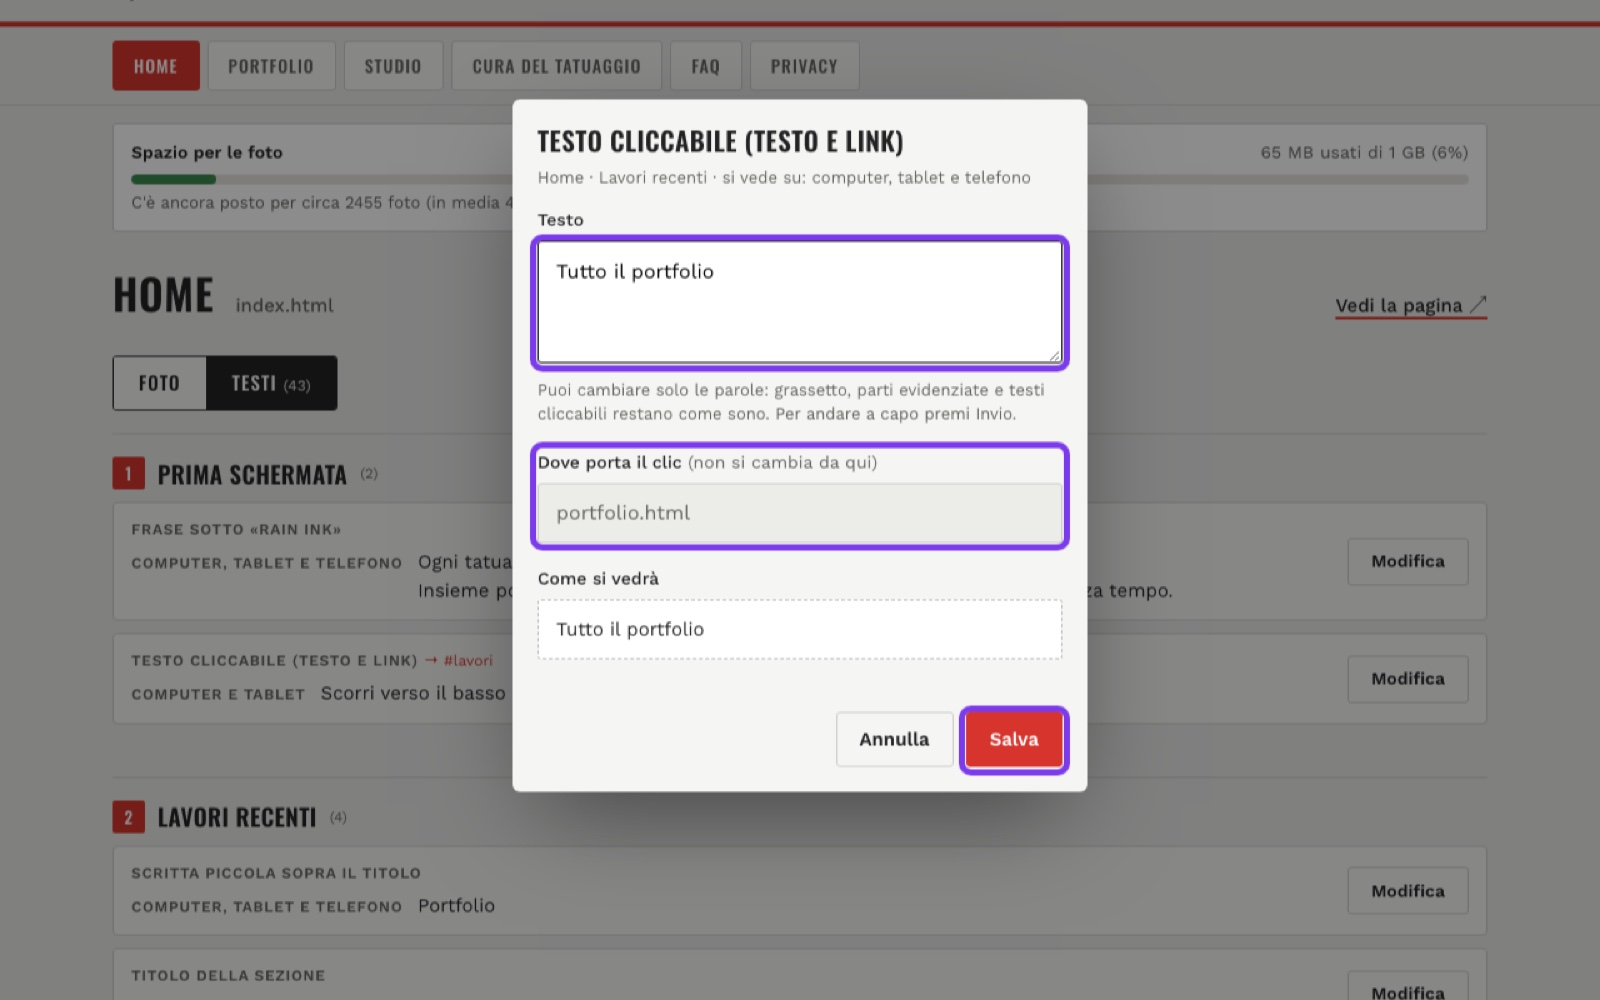
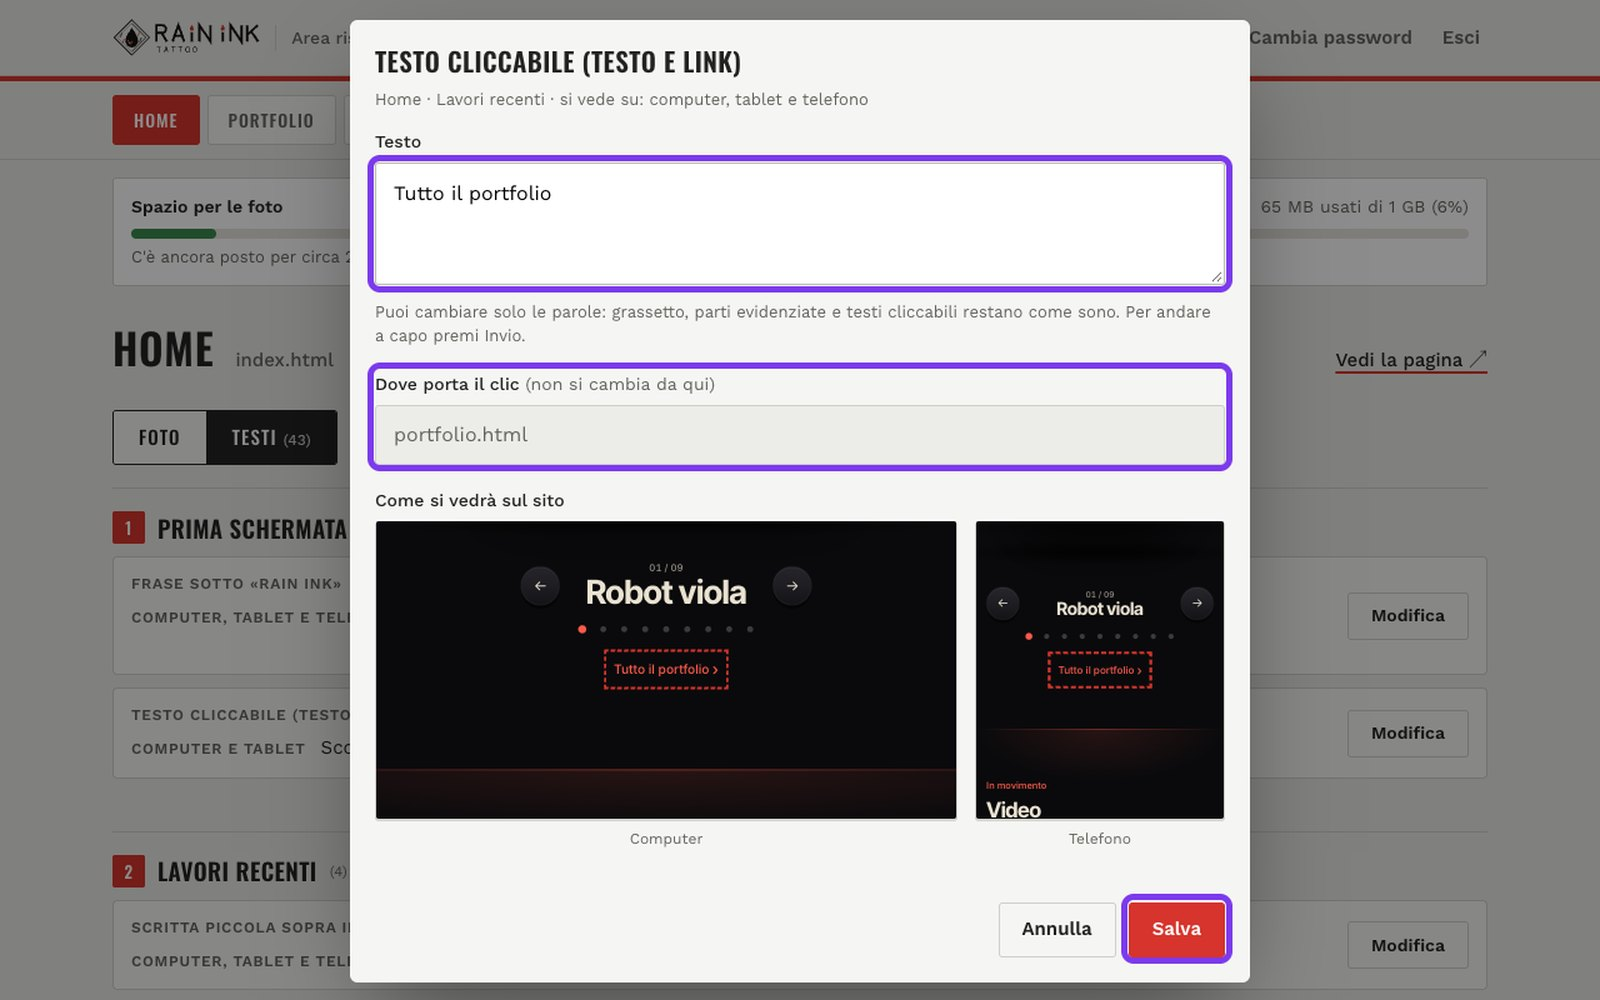
Area riservata: anteprima dei testi come sul sito, sul computer e sul telefono, come per le foto; schermate della guida dei testi rifatte (versione 6.24 nel LEGGIMI)

diff --git a/area-riservata.html b/area-riservata.html
@@ -402,6 +402,19 @@ input[type=text],input[type=password]{border-radius:3px;background:#fff;border-c
 .anteprima-testo.grande{display:block;-webkit-line-clamp:none;max-height:30svh;overflow:auto;padding:12px 14px;background:#fff;border:1px dashed #b9b9b3;border-radius:3px;margin-bottom:12px}
 .anteprima-testo .vuoto{color:var(--mute)}
 .etichetta-ant{font-size:14px;font-weight:500;margin-bottom:6px}
+/* testi: anteprima come sul sito, sul computer e sul telefono (come per le foto): la pagina vera
+   in piccolo, con il testo nuovo al suo posto e contornato, centrata sul testo */
+#d-testo{width:min(720px,100% - 24px)}
+.viste-testo{display:flex;flex-wrap:wrap;gap:14px;align-items:flex-start;margin-bottom:12px}
+.viste-testo[hidden]{display:none}
+.viste-testo figure{margin:0;flex:1 1 300px;min-width:0}
+.viste-testo figure.tel{flex:0 0 200px;margin:0 auto}
+.vt-fin{position:relative;height:240px;overflow:hidden;border:1px solid var(--line);border-radius:3px;background:var(--paper)}
+.vt-fin iframe{position:absolute;left:0;top:0;border:0;transform-origin:0 0;pointer-events:none;visibility:hidden}
+.vt-fin.pronta iframe{visibility:visible}
+.vt-msg{position:absolute;inset:0;display:grid;place-items:center;padding:14px;text-align:center;font-size:13px;line-height:1.4;color:var(--mute)}
+.vt-fin.pronta .vt-msg{display:none}
+.viste-testo figcaption{font-size:12px;color:var(--mute);margin-top:5px;text-align:center}
 #d-testo textarea{width:100%;min-height:52px;padding:12px 14px;border:1px solid #b9b9b3;border-radius:3px;background:#fff;font:16px/1.5 var(--testo);resize:vertical}
 #d-testo textarea:focus{outline:none;border-color:var(--ink);box-shadow:0 0 0 3px rgba(0,0,0,.08)}
 #d-testo .parte+.parte,.testi-foto .parte+.parte{margin-top:8px}
@@ -541,8 +554,12 @@ input[type=text],input[type=password]{border-radius:3px;background:#fff;border-c
       <label for="tx-link">Dove porta il clic <span class="facoltativo">(non si cambia da qui)</span></label>
       <input type="text" id="tx-link" readonly tabindex="-1">
     </div>
-    <p class="etichetta-ant" id="tx-ant-et">Come si vedrà</p>
-    <div class="anteprima-testo grande" id="tx-ant" aria-live="polite"></div>
+    <p class="etichetta-ant" id="tx-ant-et">Come si vedrà sul sito</p>
+    <div class="viste-testo" id="tx-viste" aria-hidden="true">
+      <figure class="pc"><div class="vt-fin"><span class="vt-msg">Preparazione dell'anteprima…</span></div><figcaption>Computer</figcaption></figure>
+      <figure class="tel"><div class="vt-fin"><span class="vt-msg">Preparazione dell'anteprima…</span></div><figcaption>Telefono</figcaption></figure>
+    </div>
+    <div class="anteprima-testo grande" id="tx-ant" aria-live="polite" hidden></div>
     <p class="errore" id="err-tx" role="alert"></p>
     <div class="azioni">
       <button class="btn" type="button" id="tx-annulla">Annulla</button>
@@ -694,12 +711,12 @@ input[type=text],input[type=password]{border-radius:3px;background:#fff;border-c
     <section class="g-sez" id="g-t-modificare" aria-labelledby="g-t-modificare-t">
       <h3 id="g-t-modificare-t">Modificare un testo</h3>
       <div class="g-passo"><span class="num">1</span><p>Nella pagina clicca <b>Testi</b> (accanto a Foto). I testi sono divisi per sezione, nell'ordine in cui si vedono sul sito: clicca quello da cambiare.</p><a href="images/guida/testi.jpg" class="g-zoom" data-punti="12.25,34.70,9.44,7.20;6.44,49.20,87.12,13.90" aria-label="Ingrandisci la schermata"><img src="images/guida/testi.jpg" alt="Il pulsante Testi e l'elenco dei testi della Home divisi per sezione" width="1600" height="1000" loading="lazy" decoding="async"></a></div>
-      <div class="g-passo"><span class="num">2</span><p>Scrivi il testo nuovo (per andare a capo premi Invio). Si cambiano solo le parole: se nel testo ci sono parti in grassetto o cliccabili, ognuna ha il suo campo e resta com'è. Sotto vedi come si vedrà; poi clicca <b>Salva</b>.</p><a href="images/guida/testo-modifica.jpg" class="g-zoom" data-punti="32.94,27.60,34.12,14.20;59.75,65.80,7.31,7.50" aria-label="Ingrandisci la schermata"><img src="images/guida/testo-modifica.jpg" alt="La finestra del testo con il campo da scrivere, l'anteprima e il pulsante Salva" width="1600" height="1000" loading="lazy" decoding="async"></a></div>
+      <div class="g-passo"><span class="num">2</span><p>Scrivi il testo nuovo (per andare a capo premi Invio). Si cambiano solo le parole: se nel testo ci sono parti in grassetto o cliccabili, ognuna ha il suo campo e resta com'è. Sotto vedi, mentre scrivi, <b>come si vedrà sul sito</b>: a sinistra sul <b>computer</b>, a destra sul <b>telefono</b>, con il testo contornato di rosso al suo posto nella pagina; poi clicca <b>Salva</b>.</p><a href="images/guida/testo-modifica.jpg" class="g-zoom" data-punti="22.97,21.25,54.06,13.75;22.97,45.38,54.06,34.38;70.08,83.50,6.95,7.00" aria-label="Ingrandisci la schermata"><img src="images/guida/testo-modifica.jpg" alt="La finestra del testo con il campo da scrivere, l'anteprima come sul sito per computer e telefono e il pulsante Salva" width="1600" height="1000" loading="lazy" decoding="async"></a></div>
       <p class="g-nota">Quasi ogni testo è uno solo e si vede uguale su computer, tablet e telefono (cambia solo come è impaginato): nella scheda c'è scritto dove si vede. «Scorri verso il basso», nella prima schermata della Home, si vede solo su computer e tablet.</p>
     </section>
     <section class="g-sez" id="g-t-link" aria-labelledby="g-t-link-t">
       <h3 id="g-t-link-t">Pulsanti e testi cliccabili</h3>
-      <div class="g-passo"><span class="num">1</span><p>Nei pulsanti e nei testi cliccabili cambi le parole; sotto vedi anche <b>Dove porta il clic</b>, che invece resta com'è.</p><a href="images/guida/testo-link.jpg" class="g-zoom" data-punti="32.94,23.20,34.12,14.20;32.94,43.90,34.12,11.40;59.75,70.30,7.31,7.50" aria-label="Ingrandisci la schermata"><img src="images/guida/testo-link.jpg" alt="La finestra di un pulsante con il testo da cambiare, il campo Dove porta il clic in grigio e il pulsante Salva" width="1600" height="1000" loading="lazy" decoding="async"></a></div>
+      <div class="g-passo"><span class="num">1</span><p>Nei pulsanti e nei testi cliccabili cambi le parole; sotto vedi anche <b>Dove porta il clic</b>, che invece resta com'è.</p><a href="images/guida/testo-link.jpg" class="g-zoom" data-punti="22.97,15.50,54.06,13.75;22.97,36.25,54.06,10.88;70.08,89.38,6.95,7.00" aria-label="Ingrandisci la schermata"><img src="images/guida/testo-link.jpg" alt="La finestra di un pulsante con il testo da cambiare, il campo Dove porta il clic in grigio e il pulsante Salva" width="1600" height="1000" loading="lazy" decoding="async"></a></div>
     </section>
     <section class="g-sez" id="g-t-fissi" aria-labelledby="g-t-fissi-t">
       <h3 id="g-t-fissi-t">Cosa non si cambia</h3>
@@ -1940,7 +1957,7 @@ input[type=text],input[type=password]{border-radius:3px;background:#fff;border-c
     $('tx-t').textContent = g.titolo;
     $('tx-dove').textContent = 'Menu · vale per tutte le pagine del sito';
     $('tx-etichetta').hidden = true; $('tx-aiuto').hidden = true; $('tx-aiuto-semplice').hidden = true;
-    $('tx-campo-link').hidden = true; $('tx-ant-et').hidden = true; $('tx-ant').hidden = true;
+    $('tx-campo-link').hidden = true; $('tx-ant-et').hidden = true; $('tx-ant').hidden = true; $('tx-viste').hidden = true;
     var box = $('tx-parti'); box.innerHTML = '';
     g.eds = g.voci.map(function (v, k) {
       var c = document.createElement('div'); c.className = 'coppia-campo';
@@ -1959,7 +1976,7 @@ input[type=text],input[type=password]{border-radius:3px;background:#fff;border-c
   function apriTesto(id) {
     if (COPPIE[id]) { apriCoppia(COPPIE[id]); return; }
     txCoppia = null;
-    $('tx-etichetta').hidden = false; $('tx-ant-et').hidden = false; $('tx-ant').hidden = false;
+    $('tx-etichetta').hidden = false; $('tx-ant-et').hidden = false; $('tx-ant').hidden = true; $('tx-viste').hidden = false;
     txAperto = testi.filter(function (v) { return v.id === id; })[0]; if (!txAperto) return;
     var semplice = txAperto.tipo === 'semplice', link = 'link' in txAperto;
     $('tx-t').textContent = txAperto.descrizione;
@@ -1971,12 +1988,103 @@ input[type=text],input[type=password]{border-radius:3px;background:#fff;border-c
     $('tx-campo-link').hidden = !link; $('tx-link').value = link ? txAperto.link : '';
     $('err-tx').textContent = ''; anteprimaTesto();
     dtx.showModal(); txEd.primo.focus();
+    vtApri(txAperto);
   }
   function anteprimaTesto() {
     if (txCoppia || !txAperto || !txEd) return;
     var r = txEd.valore();
     $('tx-ant').innerHTML = r.testo ? htmlTesto(r.testo, txAperto.tipo !== 'semplice' && !('link' in txAperto)) : '<span class="vuoto">(vuoto)</span>';
+    clearTimeout(vtT); vtT = setTimeout(vtAggiorna, 120);
   }
+
+  /* ---------- testi: anteprima come sul sito, sul computer e sul telefono (come per le foto) ----------
+     La pagina vera si apre in due finestre, larga 1440 px (Computer) e 390 px (Telefono), rimpicciolite
+     nella scheda: il testo che si scrive prende il posto di quello del sito (con le stesse regole del
+     generatore), è contornato e la vista si centra su di lui. Le finestre restano aperte finché si
+     modificano testi della stessa pagina, così l'anteprima della volta dopo è subito pronta. */
+  var vtFin = [].slice.call(document.querySelectorAll('#tx-viste .vt-fin')), vtStato = [], vtT = 0, vtVoce = null;
+  var VT_ALTO = [900, 844];
+  function vtMsg(k, t, guasto) { var f = vtFin[k]; f.classList.remove('pronta'); f.querySelector('.vt-msg').textContent = t; if (vtStato[k]) vtStato[k].guasto = !!guasto; vtRiserva(); }
+  function vtPagina(k, pagina) { // apre (o riusa) la pagina vera nella finestra k
+    var c = vtStato[k];
+    if (c && c.pagina === pagina) return c.pronta;
+    if (c) c.f.remove();
+    var f = document.createElement('iframe');
+    f.tabIndex = -1; f.setAttribute('aria-hidden', 'true'); f.title = 'Anteprima';
+    f.style.width = VISTE[k].w + 'px'; f.style.height = VT_ALTO[k] + 'px';
+    c = vtStato[k] = { pagina: pagina, f: f, el: null };
+    c.pronta = new Promise(function (ok) {
+      var fatto = false;
+      function fine(d) { if (fatto) return; fatto = true; if (!d) c.pagina = null; ok(d); }
+      setTimeout(function () { fine(null); }, 20000);
+      f.onload = function () {
+        try {
+          var d = f.contentDocument, st = d.createElement('style');
+          // niente animazioni d'entrata, niente barra dei cookie, scorrimento immediato
+          st.textContent = 'html{scroll-behavior:auto!important}#ck-banner{display:none!important}.rv{opacity:1!important;transform:none!important}';
+          d.head.appendChild(st);
+          [].forEach.call(d.querySelectorAll('.rv'), function (e) { e.classList.remove('rv', 'in'); });
+          [].forEach.call(d.querySelectorAll('video'), function (v) { try { v.autoplay = false; v.pause(); } catch (er) {} });
+          setTimeout(function () { fine(d); }, 300);
+        } catch (er) { fine(null); }
+      };
+    });
+    f.src = new URL(pagina, location.href).href;
+    vtFin[k].appendChild(f);
+    return c.pronta;
+  }
+  function vtApri(v) {
+    vtVoce = v;
+    vtFin.forEach(function (fin, k) {
+      if (vtStato[k]) vtStato[k].guasto = false;
+      vtMsg(k, 'Preparazione dell\'anteprima…');
+      vtPagina(k, v.pagina).then(function (d) {
+        if (vtVoce !== v || !dtx.open) return;
+        var c = vtStato[k];
+        if (c.el) { c.el.innerHTML = c.el._vtOrig; c.el.style.outline = ''; c.el.style.outlineOffset = ''; c.el = null; }
+        var el = d && d.querySelector('[data-testo="' + v.id + '"]');
+        if (!el) { vtMsg(k, d ? 'Questo testo non si trova nella pagina.' : 'Anteprima non disponibile: controlla la connessione.', true); return; }
+        if (el._vtOrig == null) el._vtOrig = el.innerHTML;
+        for (var p = el; p; p = p.parentElement) if (p.tagName === 'DETAILS') p.open = true; // domande chiuse: si aprono
+        c.el = el; vtScrivi(k);
+        if (d.fonts && d.fonts.ready) d.fonts.ready.then(function () { vtCentra(k); });
+        setTimeout(function () { vtCentra(k); }, 800); // foto e caratteri arrivati
+      });
+    });
+  }
+  function vtRiserva() { // se nessuna delle due finestre funziona resta l'anteprima semplice di prima
+    $('tx-ant').hidden = !(vtStato.length === vtFin.length && vtStato.every(function (c) { return c && c.guasto; }));
+  }
+  function vtTesto() { var r = txEd && txEd.valore(); return r && r.testo != null ? r.testo : null; }
+  function vtScrivi(k) {
+    var c = vtStato[k]; if (!c || !c.el || !vtVoce) return;
+    var el = c.el, t = vtTesto(); if (t == null) return; // con un errore (es. simboli tolti) resta l'ultima versione giusta
+    if (vtVoce.tipo === 'semplice') { // come il generatore: cambia solo il pezzo di testo diretto, le parti fisse restano
+      el.innerHTML = el._vtOrig;
+      var n = [].filter.call(el.childNodes, function (x) { return x.nodeType === 3 && x.nodeValue.trim(); });
+      if (n.length === 1) { var m = n[0].nodeValue.match(/^(\s*)[\s\S]*?(\s*)$/); n[0].nodeValue = m[1] + t.replace(/\s+/g, ' ') + m[2]; }
+    } else el.innerHTML = htmlTesto(t, el.tagName !== 'A');
+    vtCentra(k);
+  }
+  function vtAggiorna() { if (dtx.open && !txCoppia) vtFin.forEach(function (f, k) { vtScrivi(k); }); }
+  function vtCentra(k) {
+    var c = vtStato[k], fin = vtFin[k]; if (!c || !c.el || !dtx.open) return;
+    var w = c.f.contentWindow, el = c.el, W = fin.clientWidth, H = fin.clientHeight, vw = VISTE[k].w, vh = VT_ALTO[k];
+    var r = el.getBoundingClientRect();
+    if (!W || !H) return;
+    if (!r.width || !r.height) { vtMsg(k, 'Su questo schermo questo testo non si vede.'); return; }
+    w.scrollTo(0, Math.max(0, r.top + w.scrollY + r.height / 2 - vh / 2)); r = el.getBoundingClientRect();
+    // telefono: tutta la larghezza; computer: abbastanza vicino da leggere il testo, mai oltre la grandezza vera
+    var s = k ? W / vw : Math.max(W / vw, Math.min(.6, W / (r.width + 80)));
+    var x = Math.min(0, Math.max(W - vw * s, W / 2 - (r.left + r.width / 2) * s));
+    var y = r.height * s > H - 24 ? 12 - r.top * s : H / 2 - (r.top + r.height / 2) * s;
+    y = Math.min(0, Math.max(H - vh * s, y));
+    el.style.outline = Math.max(2, Math.round(2 / s)) + 'px dashed ' + (getComputedStyle(document.documentElement).getPropertyValue('--acc').trim() || '#c4372a');
+    el.style.outlineOffset = Math.round(6 / s) + 'px';
+    c.f.style.transform = 'translate(' + x + 'px,' + y + 'px) scale(' + s + ')';
+    fin.classList.add('pronta'); c.guasto = false; vtRiserva();
+  }
+  window.addEventListener('resize', function () { if (dtx.open) vtFin.forEach(function (f, k) { vtCentra(k); }); });
   $('tx-annulla').onclick = function () { dtx.close(); };
   $('f-testo').onsubmit = function (e) {
     e.preventDefault();
